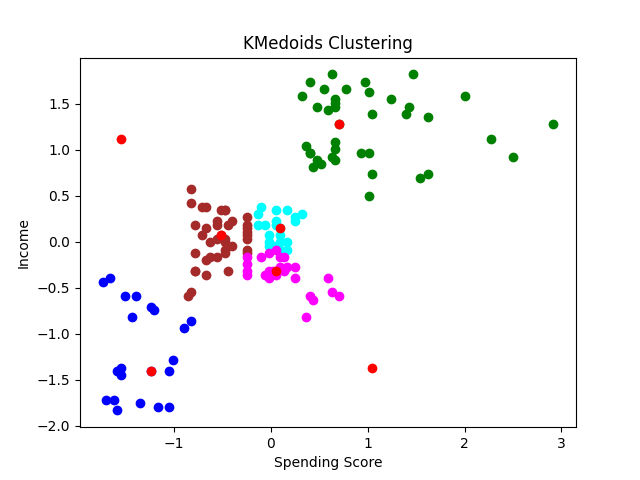
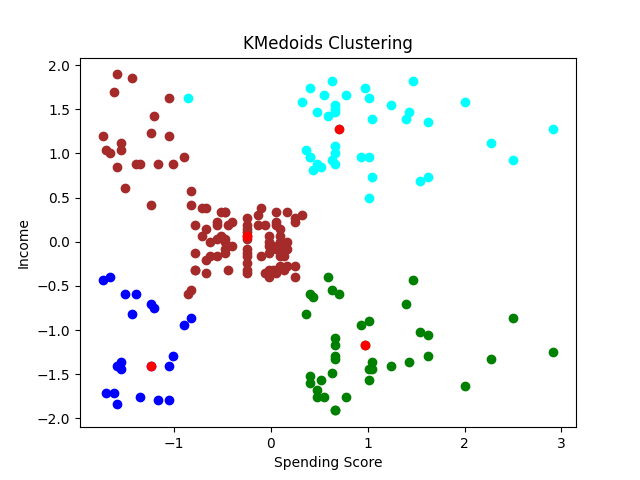
add birch dendrogram and silhouette score for kmedoids

diff --git a/clustering_mall_customers.py b/clustering_mall_customers.py
@@ -5,26 +5,27 @@ from sklearn.cluster import KMeans, Birch
 from sklearn_extra.cluster import KMedoids
 from sklearn.metrics import silhouette_score, calinski_harabasz_score, davies_bouldin_score
 from warnings import simplefilter
+from scipy.cluster.hierarchy import dendrogram, linkage
 
 # Ignore all future warnings
 simplefilter(action='ignore', category=FutureWarning)
 
-# Load and preprocess the datasetc
+# Load and preprocess the dataset
 df = pd.read_csv('Mall_Customers_Preprocessed.csv')
 df.dropna(inplace=True)
 
-# Select relevant features and scale data
+# Select relevant features and standardize them
 X = df.iloc[:, [2,3]].values
 scaler = StandardScaler()
 X_scaled = scaler.fit_transform(X)
 
 # Elbow method to find the optimal number of clusters for k-means
-ssd_kmeans = []
+wcss_kmeans = []
 for i in range(1, 12):
     kmeans = KMeans(n_clusters=i, random_state=42)
     kmeans.fit(X_scaled)
-    ssd_kmeans.append(kmeans.inertia_)
-plt.plot(range(1,12), ssd_kmeans)
+    wcss_kmeans.append(kmeans.inertia_)
+plt.plot(range(1,12), wcss_kmeans)
 plt.title('Elbow Method for Optimal k (KMeans)')
 plt.xlabel('Number of Clusters')
 plt.ylabel('Sum of squared distance')
@@ -33,12 +34,12 @@ plt.show()
 plt.clf()
 
 # Elbow method to find the optimal number of clusters for k-medoids
-ssd_kmedoids = []
+wcss_kmedoids = []
 for k in range(1, 12):
     kmedoids = KMedoids(n_clusters=k, random_state=42)
     kmedoids.fit(X_scaled)
-    ssd_kmedoids.append(kmedoids.inertia_)
-plt.plot(range(1, 12), ssd_kmedoids, marker='o')
+    wcss_kmedoids.append(kmedoids.inertia_)
+plt.plot(range(1, 12), wcss_kmedoids, marker='o')
 plt.title('Elbow Method for Optimal k (KMedoids)')
 plt.xlabel('Number of Clusters')
 plt.ylabel('Sum of squared distance')
@@ -46,15 +47,33 @@ plt.savefig('elbow-results-kmedoids.png')
 plt.show()
 plt.clf()
 
-# Apply k-means, k-medoids, and birch model and predict clusters
+# Silhouette score to find the optimal number of clusters for k-medoids
+# Look for the value of k that maximizes the silhouette score.
+silhouette_scores = []
+for k in range(2,12):
+    kmedoids = KMedoids(n_clusters=k, random_state=42)
+    kmedoids.fit(X_scaled)
+    labels = kmedoids.labels_
+    silhouette_scores.append(silhouette_score(X_scaled, labels))
+
+plt.plot(range(2,12), silhouette_scores, marker='o')
+plt.title('Silhouette Score for K-Medoids Clustering')
+plt.xlabel('Number of Clusters (k)')
+plt.ylabel('Silhouette Score')
+plt.savefig('silhouette-scores-kmedoids')
+plt.show()
+plt.clf()
+
+# Apply k-means, k-medoids, and birch algorithm to perform clustering and return cluster labels
 kmeans = KMeans(n_clusters=5, random_state=42)
 y_kmeans = kmeans.fit_predict(X_scaled)
-kmedoids = KMedoids(n_clusters=7, random_state=42)
+kmedoids = KMedoids(n_clusters=4, random_state=42)
 y_kmedoids = kmedoids.fit_predict(X_scaled)
-birch = Birch(threshold=0.25, n_clusters=5)
-y_birch = birch.fit_predict(X_scaled)
+birch = Birch(threshold=0.15, n_clusters=None)
+birch.fit(X_scaled)
 
 # Model Evaluation using Silhouette Score
+# Measures how similar an object is to its own cluster compared to other clusters
 kmeans_silhouette = silhouette_score(X_scaled, kmeans.labels_)
 kmedoids_silhouette = silhouette_score(X_scaled, kmedoids.labels_)
 birch_silhouette = silhouette_score(X_scaled, birch.labels_)
@@ -67,6 +86,9 @@ print("Silhouette Score for Birch:")
 print(birch_silhouette)
 
 # Model Evaluation using Calinski-Harabasz Index
+# The index aims to capture the compactness of clusters and the separation between them
+# Higher values indicate better-defined and well-separated clusters.
+# Lower values may suggest that clusters are not well-separated or are too dispersed.
 kmeans_calinski_harabasz = calinski_harabasz_score(X_scaled, kmeans.labels_)
 kmedoids_calinski_harabasz = calinski_harabasz_score(X_scaled, kmedoids.labels_)
 birch_calinski_harabasz = calinski_harabasz_score(X_scaled, birch.labels_)
@@ -79,6 +101,9 @@ print("Calinski-Harabasz Index for Birch:")
 print(birch_calinski_harabasz)
 
 # Model evaluation using Davies-Bouldin Index
+# It measures the compactness and separation of clusters in a partitioned dataset
+# Lower values are preferable, indicating more cohesive and well-separated clusters.
+# Higher values suggest that clusters might be less compact or less well-separated
 kmeans_davies_bouldin_score = davies_bouldin_score(X_scaled, kmeans.labels_)
 kmedoids_davies_bouldin_score = davies_bouldin_score(X_scaled, kmedoids.labels_)
 birch_davies_bouldin_score = davies_bouldin_score(X_scaled, birch.labels_)
@@ -122,17 +147,18 @@ plt.show()
 plt.clf()
 
 # Birch
-plt.scatter(X_scaled[y_birch == 0,0], X_scaled[y_birch == 0,1], c='brown')
-plt.scatter(X_scaled[y_birch == 1,0], X_scaled[y_birch == 1,1], c='blue')
-plt.scatter(X_scaled[y_birch == 2,0], X_scaled[y_birch == 2,1], c='green')
-plt.scatter(X_scaled[y_birch == 3,0], X_scaled[y_birch == 3,1], c='cyan')
-plt.scatter(X_scaled[y_birch == 4,0], X_scaled[y_birch == 4,1], c='magenta')
-plt.scatter(birch.subcluster_centers_[:,0], birch.subcluster_centers_[:,1], c='red')
-plt.title('Birch Clustering')
-plt.xlabel('Spending Score')
-plt.ylabel('Income')
-plt.plot
-plt.savefig('birchplot.png')
+# Create linkage matrix for hierarchical clustering
+linkage_matrix = linkage(X_scaled, method='ward')
+
+# Plot dendrogram for BIRCH algorithm
+plt.figure(figsize=(10, 5))
+dendrogram(linkage_matrix, labels=birch.labels_)
+plt.title('Dendrogram for Birch Clustering')
+# X-axis represents the individual data points
+plt.xlabel('Data Points')
+# Height represents the dissimilarity or distance between the clusters.
+plt.ylabel('Distance')
+plt.savefig('birchdendrogram.png')
 plt.show()
 plt.clf()
 
@@ -154,7 +180,6 @@ kmedoids_segment_1 = df[df['kmedoids_cluster'] == 0]
 kmedoids_segment_2 = df[df['kmedoids_cluster'] == 1]
 kmedoids_segment_3 = df[df['kmedoids_cluster'] == 2]
 kmedoids_segment_4 = df[df['kmedoids_cluster'] == 3]
-kmedoids_segment_5 = df[df['kmedoids_cluster'] == 4]
 
 # BIRCH Segments
 birch_segment_1 = df[df['birch_cluster'] == 0]
@@ -182,8 +207,6 @@ print('kmedoids_segment_3:')
 print(kmedoids_segment_3)
 print('kmedoids_segment_4:')
 print(kmedoids_segment_4)
-print('kmedoids_segment_5:')
-print(kmedoids_segment_5)
 print('birch_segment_1:')
 print(birch_segment_1)
 print('birch_segment_2:')
